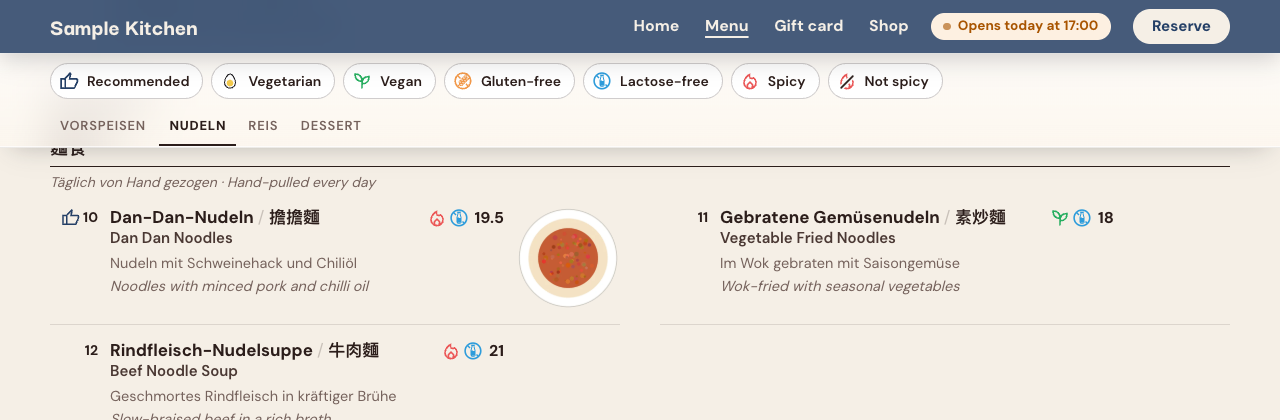
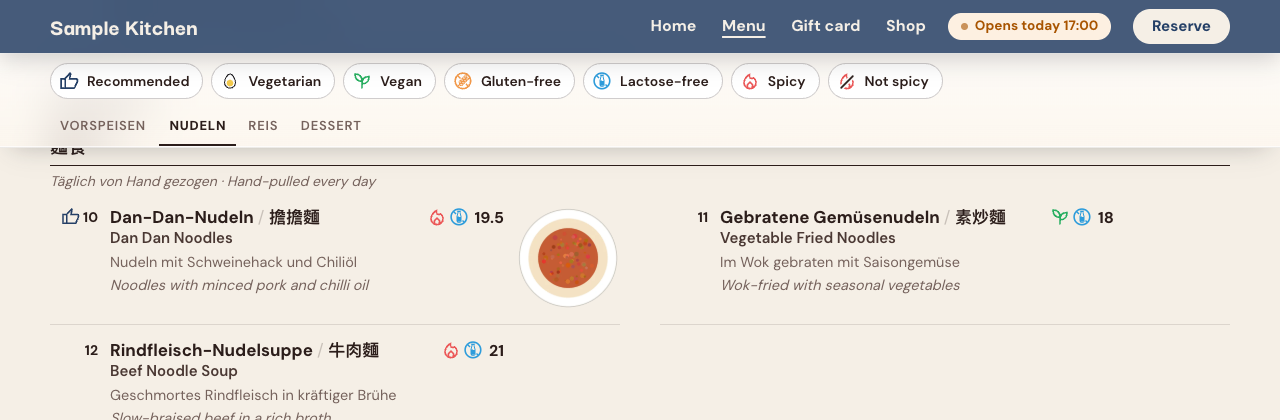
MenuDash Theme 1.16.0: short Open now badge in the header, menu links in one line, Shop in the demo menu

diff --git a/menudash-theme/style.css b/menudash-theme/style.css
@@ -2,7 +2,7 @@
 Theme Name: MenuDash Theme
 Theme URI: https://github.com/yingshiuan/menudash-theme
 Description: A restaurant website theme made for the MenuDash plugin: the menu, today's specials, opening hours, holidays, gift cards and your restaurant's details come from MenuDash, and the theme shows them in a warm, simple design. Home page sections, header and footer are edited in Appearance → Editor; colours and fonts under Styles. English and German included.
-Version: 1.15.0
+Version: 1.16.0
 Requires at least: 6.5
 Tested up to: 7.1
 Requires PHP: 7.4
@@ -469,7 +469,9 @@ header.mdt-scrolled .mdt-band .wp-block-site-title { font-size: 1.5rem !importan
 	font-size: .95rem; font-weight: 700; line-height: 1.2; white-space: nowrap; text-decoration: none;
 }
 .mdt-head-cta .wp-block-button__link:hover { background: #fff; text-decoration: none; }
-.mdt-band .mdt-head-open { margin: 0; font-size: .85rem; white-space: nowrap; }
+.mdt-band .mdt-head-open { margin: 0; font-size: .85rem; white-space: nowrap; } /* the short words ("Opens tomorrow 17:00", MenuDash Restaurant 1.7) */
+.mdt-band .wp-block-navigation__container { flex-wrap: nowrap; } /* the links stay in one line */
+.mdt-band .wp-block-navigation-item__label { white-space: nowrap; }
 @media (max-width: 1279px) { .mdt-band .mdt-head-open, .mdt-band .wp-block-buttons.mdt-head-cta { display: none; } } /* room for the menu first */
 body.home header:not(.mdt-scrolled) .mdt-band .mdt-head-open { display: none; } /* the hero shows it there */
 

diff --git a/dev/setup-theme.php b/dev/setup-theme.php
@@ -2,7 +2,7 @@
 /**
  * Demo for dev/serve.sh, after MenuDash's own demo (sample menu, photos, specials, hours,
  * details, gift cards and their pages): the theme's home page and a top menu: Home · Menu ·
- * Gift card. The site language comes from the blueprint (dev/serve.sh … de: German).
+ * Gift card · Shop. The site language comes from the blueprint (dev/serve.sh … de: German).
  */
 
 require_once '/wordpress/wp-load.php';
@@ -27,7 +27,21 @@ if ( ! mdt_legal_page() ) {
 	);
 }
 
-// The top menu as a block navigation: Home · Menu · Gift card.
+// With MenuDash Shop: its page, published (the add-on itself only makes a draft, and not when
+// a page with the list is there already).
+if ( function_exists( 'mdash_shop_page' ) && ! mdash_shop_page( true ) ) {
+	wp_insert_post(
+		array(
+			'post_type'    => 'page',
+			'post_status'  => 'publish',
+			'post_title'   => __( 'Shop', 'menudash-shop' ),
+			'post_name'    => function_exists( 'mdash_shop_base' ) ? mdash_shop_base() : 'shop',
+			'post_content' => "<!-- wp:paragraph {\"fontSize\":\"large\"} -->\n<p class=\"has-large-font-size\">" . esc_html__( 'Things to take home: from our kitchen, and now and then something we no longer need. Interested? Call us or ask at the restaurant.', 'menudash-shop' ) . "</p>\n<!-- /wp:paragraph -->\n\n<!-- wp:menudash/shop {\"align\":\"wide\"} /-->",
+		)
+	);
+}
+
+// The top menu as a block navigation: Home · Menu · Gift card · Shop.
 // (WordPress may already have made an automatic one that only lists the pages.)
 if ( ! get_posts( array( 'post_type' => 'wp_navigation', 'title' => 'Main menu', 'numberposts' => 1 ) ) ) {
 	$links = '<!-- wp:navigation-link {"label":"' . esc_attr__( 'Home', 'menudash-theme' ) . '","url":"' . home_url( '/' ) . '","kind":"custom"} /-->';
@@ -35,6 +49,7 @@ if ( ! get_posts( array( 'post_type' => 'wp_navigation', 'title' => 'Main menu',
 	// /speisekarte/ and /gutschein/).
 	$menu_page = null;
 	$gift_page = null;
+	$shop_page = null;
 	foreach ( get_posts( array( 'post_type' => 'page', 'post_status' => 'publish', 'numberposts' => -1, 'orderby' => 'ID', 'order' => 'ASC' ) ) as $p ) {
 		if ( ! $menu_page && has_shortcode( $p->post_content, 'menudash' ) ) {
 			$menu_page = $p;
@@ -42,8 +57,11 @@ if ( ! get_posts( array( 'post_type' => 'wp_navigation', 'title' => 'Main menu',
 		if ( ! $gift_page && has_shortcode( $p->post_content, 'menudash_giftcard' ) ) {
 			$gift_page = $p;
 		}
+		if ( ! $shop_page && false !== strpos( $p->post_content, '<!-- wp:menudash/shop ' ) ) {
+			$shop_page = $p;
+		}
 	}
-	foreach ( array( $menu_page, $gift_page ) as $page ) {
+	foreach ( array( $menu_page, $gift_page, $shop_page ) as $page ) {
 		if ( $page ) {
 			$links .= sprintf( '<!-- wp:navigation-link {"label":"%s","type":"page","id":%d,"url":"%s","kind":"post-type"} /-->', esc_attr( get_the_title( $page ) ), $page->ID, get_permalink( $page ) );
 		}

diff --git a/menudash-theme/patterns/header.php b/menudash-theme/patterns/header.php
@@ -32,7 +32,7 @@ foreach ( get_posts( array( 'post_type' => 'wp_navigation', 'numberposts' => 20,
 <div class="wp-block-group mdt-head-end">
 <!-- wp:navigation {<?php echo $ref; ?>"overlayBackgroundColor":"primary","overlayTextColor":"cream","layout":{"type":"flex","justifyContent":"right"},"style":{"spacing":{"blockGap":"1.6rem"}}} /-->
 <?php // With MenuDash Restaurant: open now, and one button to book (wide screens; phones have the action bar). ?>
-<!-- wp:menudash/open {"className":"mdt-head-open"} /-->
+<!-- wp:menudash/open {"short":true,"className":"mdt-head-open"} /-->
 <!-- wp:buttons {"className":"mdt-head-cta"} -->
 <div class="wp-block-buttons mdt-head-cta">
 <?php echo mdt_bound_button( 'reserve', trim( str_replace( '· %s', '', __( 'Reserve · %s', 'menudash-theme' ) ) ) ); // phpcs:ignore -- block markup, escaped there ?>

diff --git a/README.md b/README.md
@@ -20,7 +20,7 @@ MenuDash holds everything the restaurant keeps up to date: the menu, today's spe
 | Visit us / Delivery, with a map | address, phone, getting here, delivery link and ordering times from MenuDash; the map loads only after a click |
 | Footer | address (opens Google Maps), phone and e-mail, social icons (each link entered under MenuDash → Restaurant: Instagram, Facebook, Google, Tripadvisor, TikTok, YouTube, WhatsApp), getting here, opening hours, "© Company · Legal notice · Privacy · meat origin" (each link once its page exists; the last one is the published page with MenuDash's `[menudash_origin]`, e.g. *Fleisch-Deklaration*) |
 
-**The header** stays at the top: at the start of a page it's the coloured band with the logo, tagline and menu; once the guest scrolls, it becomes a slim bar in frosted glass (smaller logo, no tagline), slides away while scrolling down and comes back when scrolling up. On wide screens (from 1280 pixels) it also has **Reserve** as a pill button and the "Open now" badge (with MenuDash Restaurant; on the home page the badge joins once the hero's own badge is scrolled away). On the menu page, MenuDash's filter bar sits right under it.
+**The header** stays at the top: at the start of a page it's the coloured band with the logo, tagline and menu; once the guest scrolls, it becomes a slim bar in frosted glass (smaller logo, no tagline), slides away while scrolling down and comes back when scrolling up. On wide screens (from 1280 pixels) it also has **Reserve** as a pill button and the "Open now" badge in its short words, such as "Opens tomorrow 17:00" (with MenuDash Restaurant, short words from 1.7; on the home page the badge joins once the hero's own badge is scrolled away). The menu's links stay in one line. On the menu page, MenuDash's filter bar sits right under it.
 
 <img src="docs/screenshot-header.png" alt="The menu page while scrolling: the slim glass header with Reserve and Open now, MenuDash's filter bar right under it" width="720">
 
